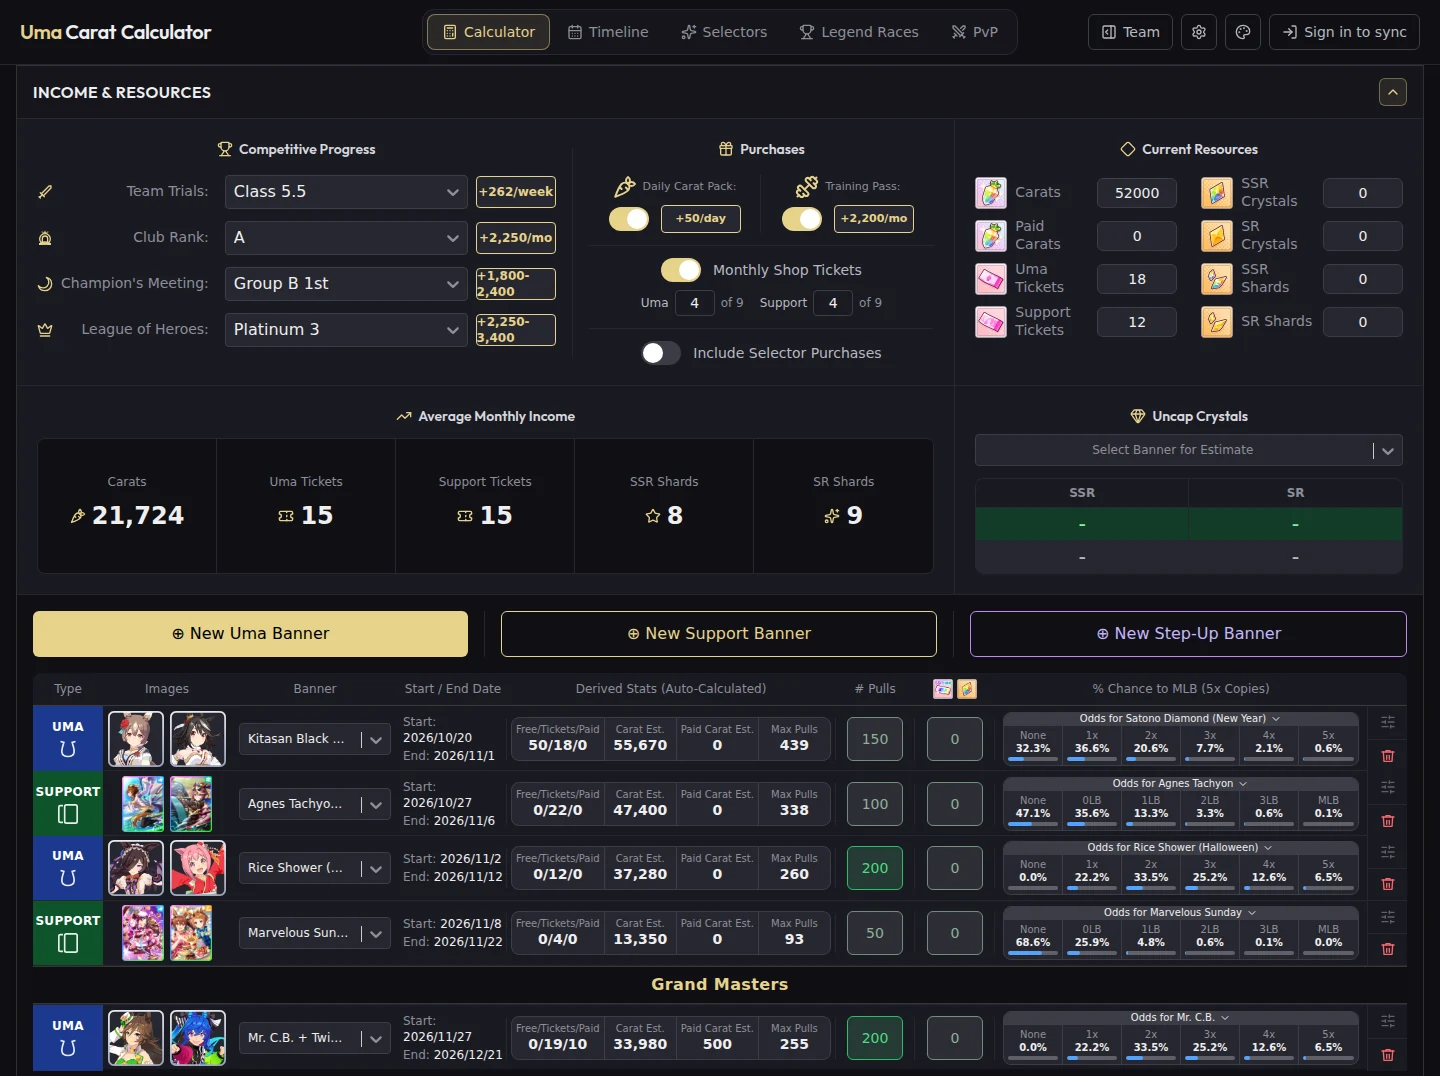
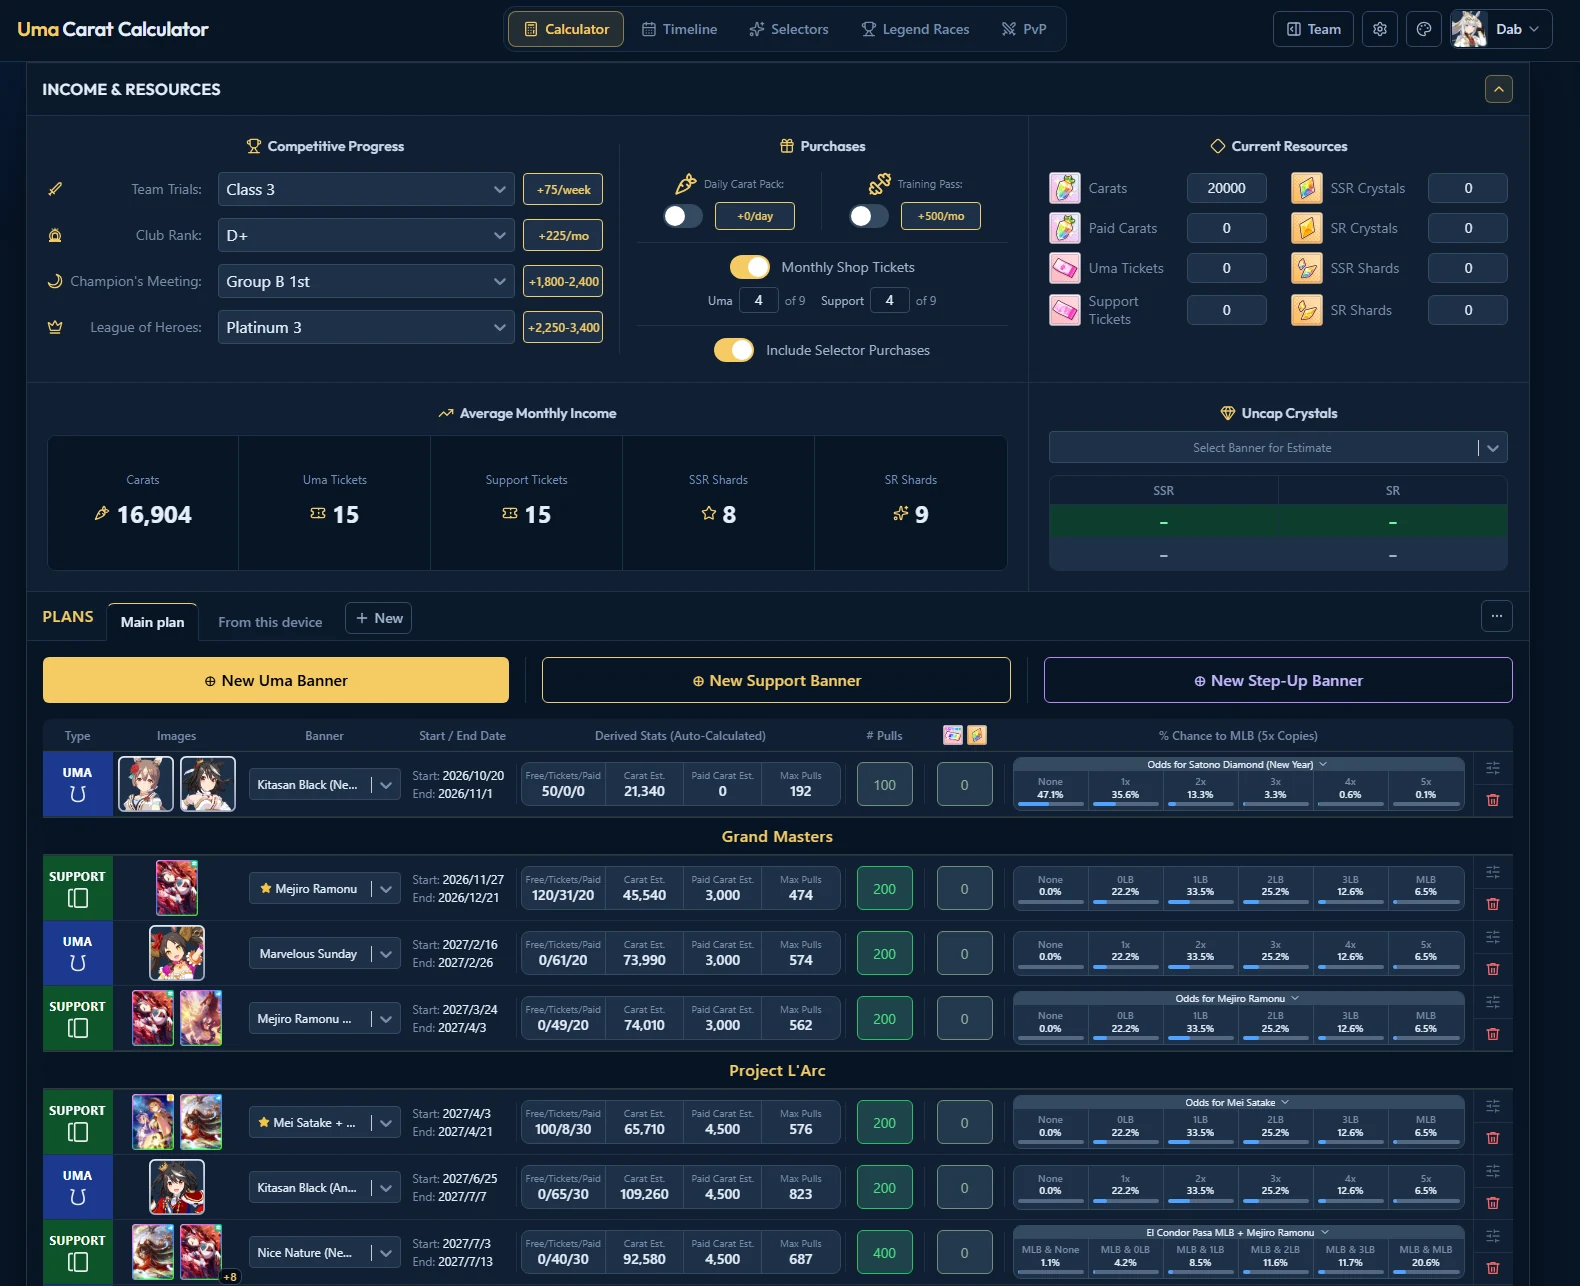
docs: README uses the owner's screenshots, six views

diff --git a/README.md b/README.md
@@ -7,7 +7,7 @@ Uma Musume Pretty Derby players with over **100,000 visitors a month**. Since it
 
 [![CI](https://github.com/charlesmerriman/uma-carat-calculator-web/actions/workflows/ci.yml/badge.svg)](https://github.com/charlesmerriman/uma-carat-calculator-web/actions/workflows/ci.yml)
 
-![The planner: income settings, current resources, and five planned banners with the carats left and the odds at each](docs/images/planner.webp)
+![The planner: rank income, purchases and current resources above a plan of banners, each showing the carats left and the odds of getting the card](docs/images/planner.webp)
 
 This is the React frontend. The Django API behind it is
 [uma-carat-calculator-api](https://github.com/charlesmerriman/uma-carat-calculator-api).
@@ -31,9 +31,13 @@ each banner ends, before they spend rather than after.
   write in an on-site editor, a team planner, and a community gallery with votes, comments and
   moderation.
 
-| The timeline | A PvP guide |
+| The plan and its carat forecast | The timeline |
 |---|---|
-| ![Upcoming banners on the timeline, with their featured umas and support cards](docs/images/timeline.webp) | ![A Champions Meeting guide: course, schedule, style ranking and recommended stats](docs/images/pvp-guide.webp) |
+| ![A year of planned banners grouped by in-game scenario, above the carat forecast chart](docs/images/planner-forecast.webp) | ![Upcoming banners and a Champions Meeting on the timeline](docs/images/timeline.webp) |
+| **A PvP guide** | **The team planner** |
+| ![A Champions Meeting guide: style ranking, meta analysis, recommended stats, skills and umas](docs/images/pvp-guide.webp) | ![Building a team beside the guide's picks and recommended skills](docs/images/pvp-team.webp) |
+
+![The PvP gallery: players' teams with votes, views and a comment thread](docs/images/pvp-gallery.webp)
 
 No page needs an account. A guest's plan is kept on their device, and signing in with Google,
 Discord or Patreon moves it to the account.
